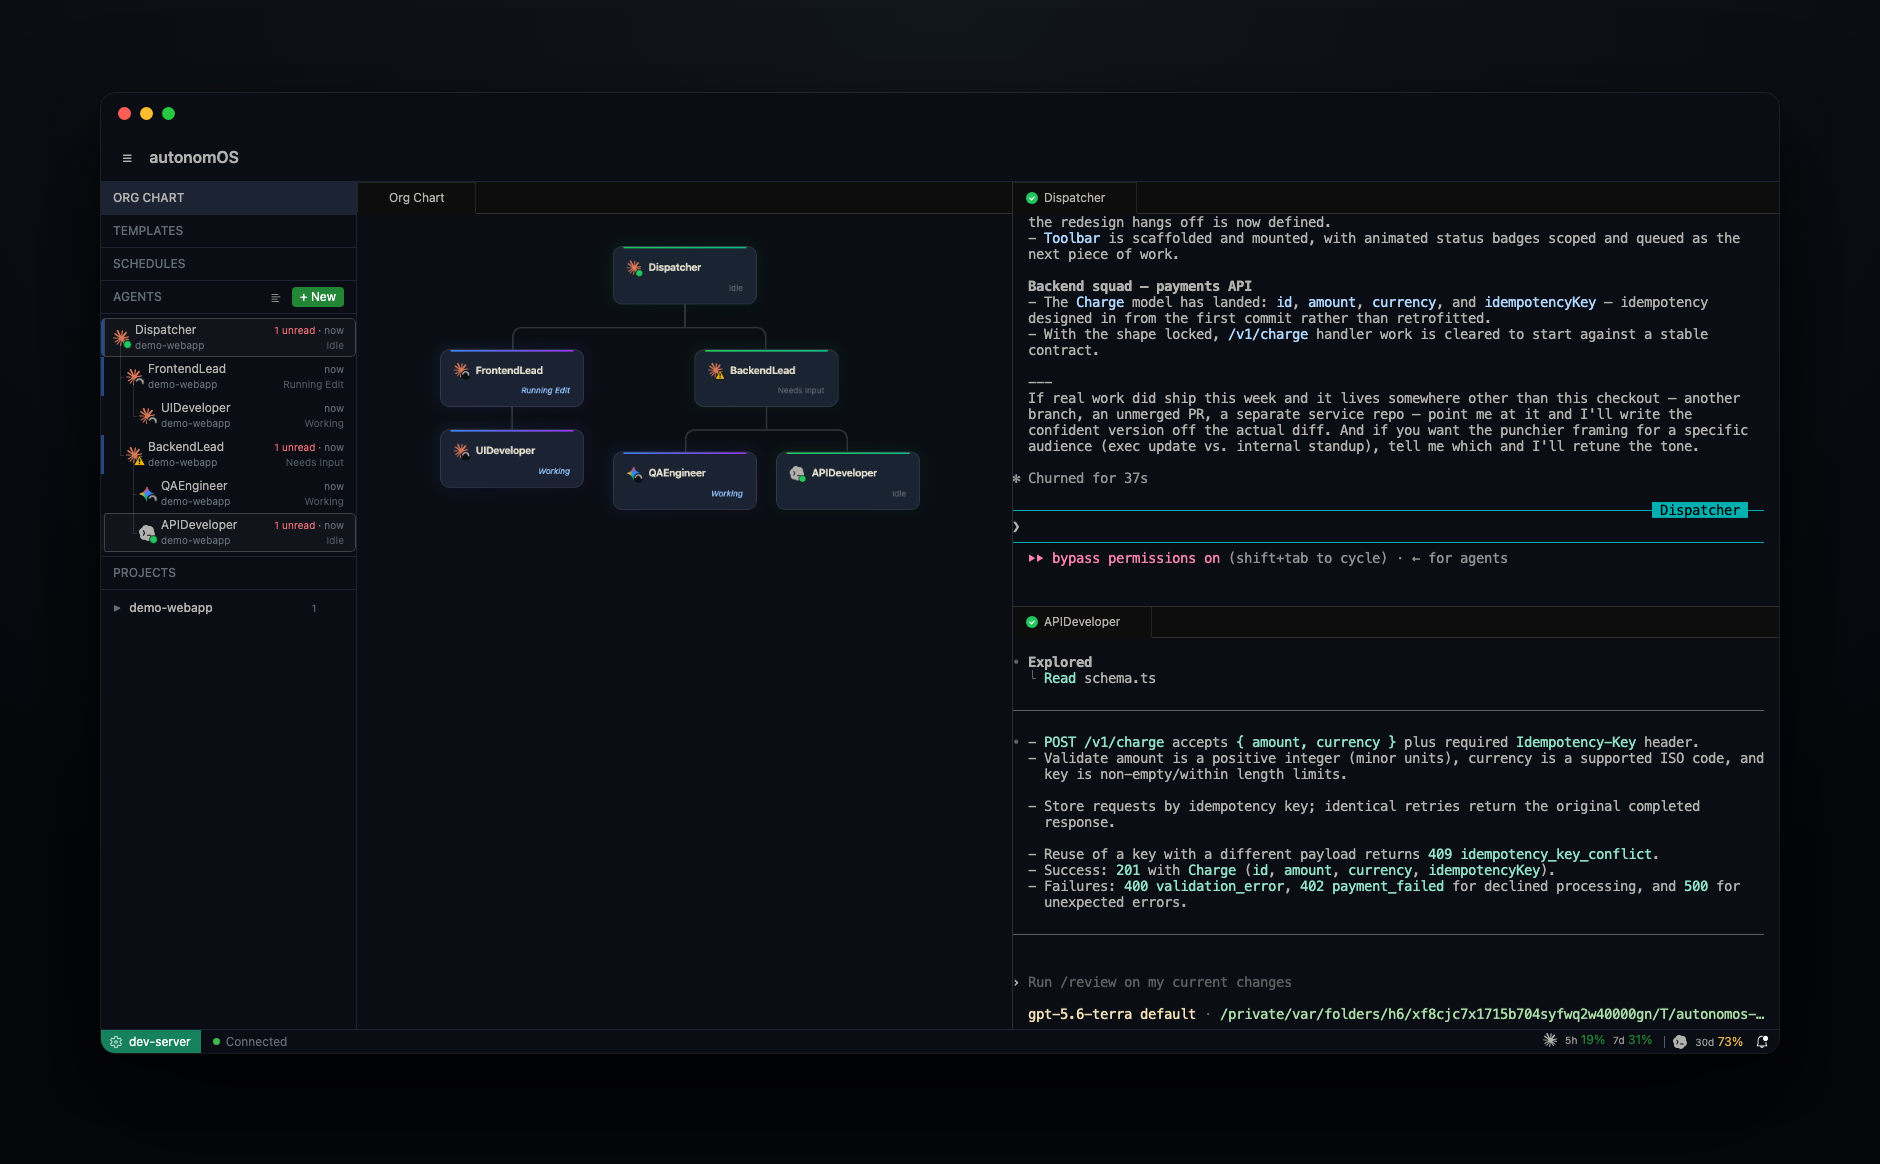
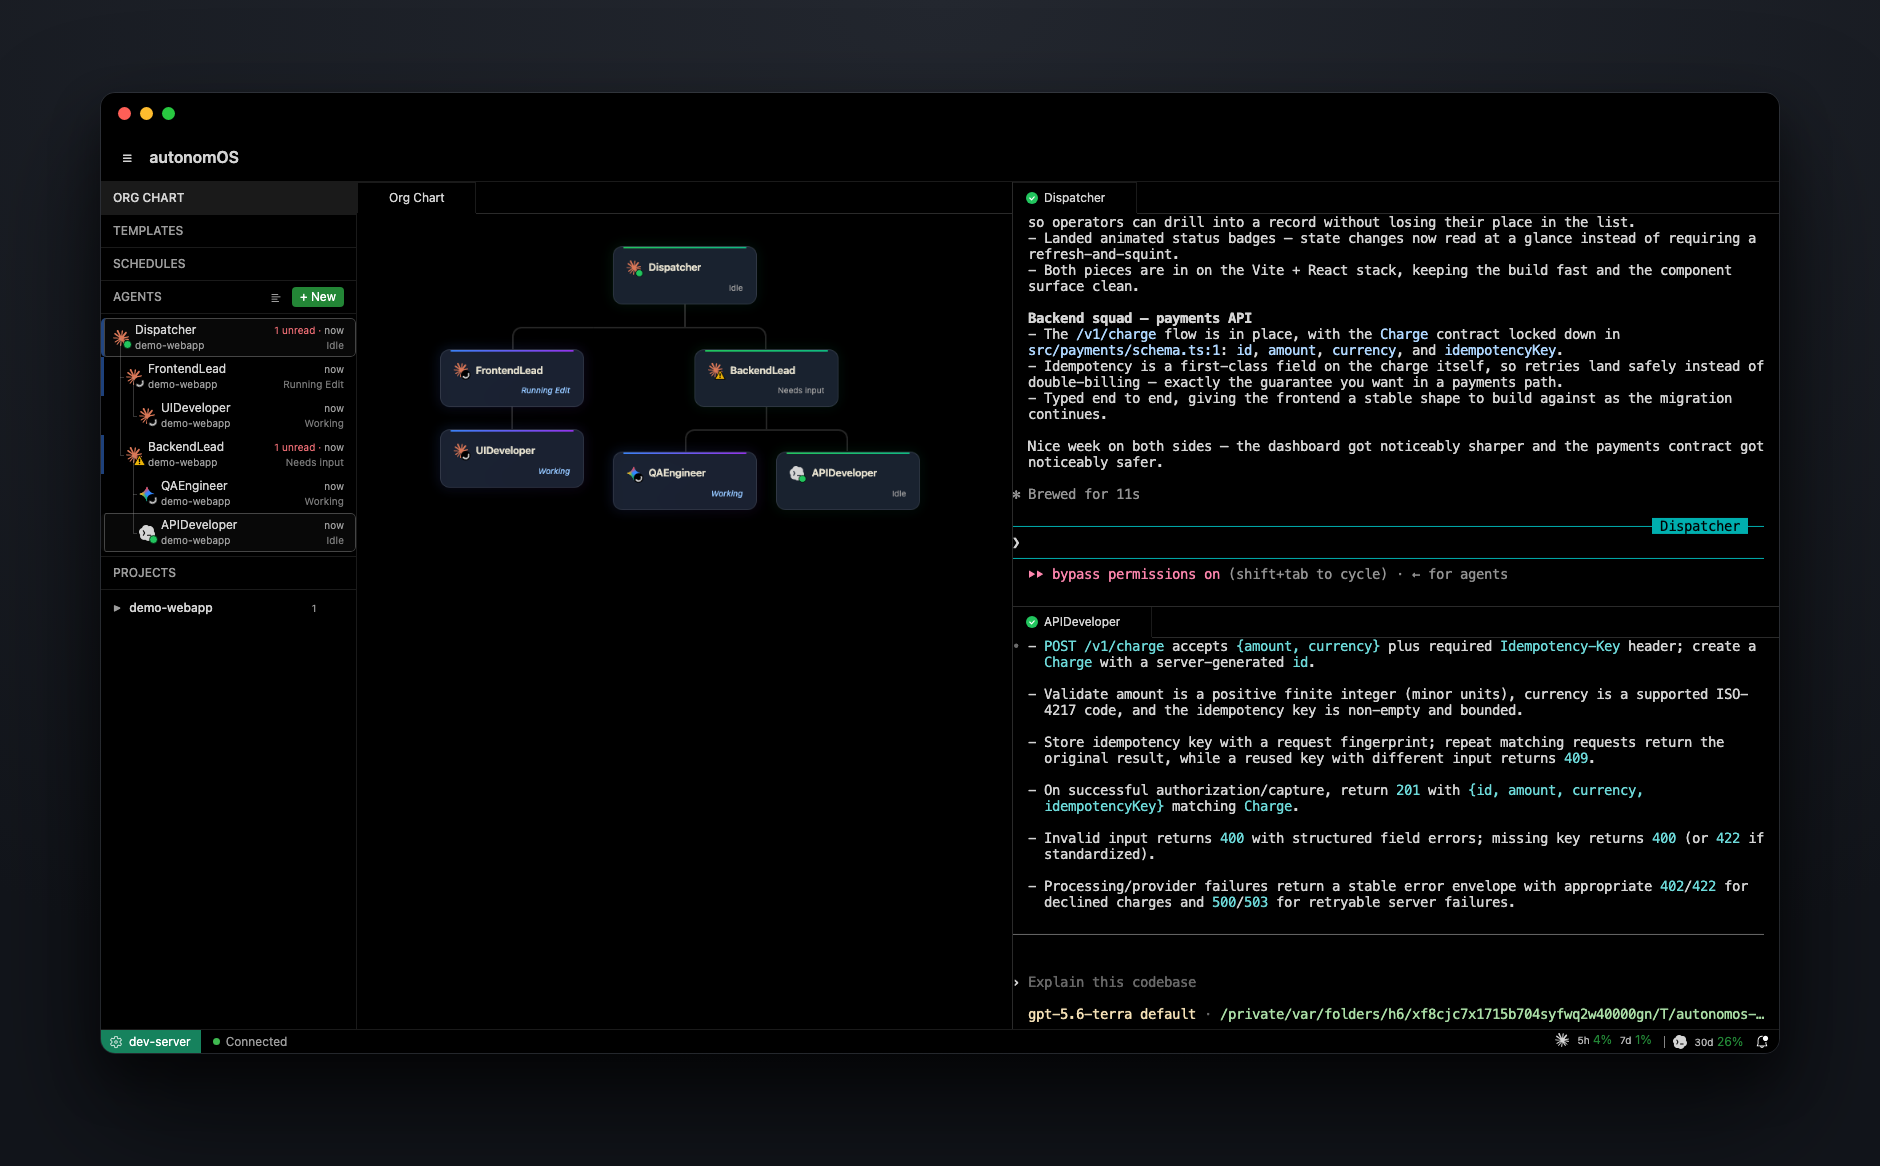
docs(hero): void theme + lighter backdrop so the black window floats
- capture in Void (pure-black) theme instead of Midnight; frame title bar
  -> #000000 so it flows seamlessly into the black app.
- frame backdrop -> a lighter neutral-gray radial gradient (#23272f->#12151b)
  so the pure-black window separates and its drop shadow reads.
- fix: this server (ADR-055) moved hook INGESTION onto the internal Unix
  control socket, so POST /api/hooks/:id on the TCP port no longer accepts
  status poses (404). Route poses through the control socket instead, and
  make posing best-effort (warn, not throw) so future API drift can't abort
  an expensive capture.

Claude-Session: https://claude.ai/code/session_01S3SKqmcdvkaGsC6hW6hdz4

diff --git a/packages/dashboard/scripts/capture-hero.ts b/packages/dashboard/scripts/capture-hero.ts
@@ -88,7 +88,12 @@ import {
   symlinkSync,
   writeFileSync,
 } from "node:fs";
-import { createServer, type Server, type ServerResponse } from "node:http";
+import {
+  createServer,
+  request as httpRequest,
+  type Server,
+  type ServerResponse,
+} from "node:http";
 import type { AddressInfo } from "node:net";
 import { homedir, tmpdir } from "node:os";
 import { join } from "node:path";
@@ -786,6 +791,47 @@ interface AgentInfo {
   provider?: string;
 }
 
+/** The internal control socket path — hook INGEST moved off the HTTP port onto
+ *  this Unix socket (ADR-055), so status poses must go here, not to
+ *  `POST /api/hooks` on the TCP port (which now only serves hook READS → 404).
+ *  Parsed from the boot log, with a fallback to `$configDir/control.sock`. */
+function controlSocketPath(server: DemoServer): string {
+  const m = server.logs().match(/control socket ready at (\S+)/);
+  return m ? m[1] : join(server.configDir, "control.sock");
+}
+
+/** POST a synthetic hook event to the internal control socket to pose an
+ *  agent's status badge. The socket is the auth boundary (no token needed — same
+ *  as the agents' own `curl --unix-socket` hook relay). Resolves the HTTP
+ *  status; the caller treats non-200 as non-fatal. */
+function poseHook(
+  socketPath: string,
+  sessionId: string,
+  event: Record<string, unknown>,
+): Promise<number> {
+  return new Promise((resolve, reject) => {
+    const payload = JSON.stringify({ ...event, session_id: sessionId });
+    const req = httpRequest(
+      {
+        socketPath,
+        path: `/api/hooks/${sessionId}`,
+        method: "POST",
+        headers: {
+          "Content-Type": "application/json",
+          "Content-Length": Buffer.byteLength(payload),
+        },
+      },
+      (res) => {
+        res.resume(); // drain
+        res.on("end", () => resolve(res.statusCode ?? 0));
+      },
+    );
+    req.on("error", reject);
+    req.write(payload);
+    req.end();
+  });
+}
+
 async function stageScene(
   server: DemoServer,
   cast: CastMember[],
@@ -880,16 +926,20 @@ async function stageScene(
   }
   console.log("Org chart wired");
 
-  // Pose status badges (Claude CC-native events; Gemini Gemini-native events —
-  // the hooks route maps each provider's vocabulary via normalizeEvent).
+  // Pose status badges via the internal control socket (Claude CC-native events;
+  // Gemini Gemini-native events — the ingest router maps each provider's
+  // vocabulary via normalizeEvent). Best-effort: badges are cosmetic, so a pose
+  // failure warns rather than aborting the (expensive) capture.
+  const socketPath = controlSocketPath(server);
   for (const m of cast) {
     if (!m.pose) continue;
     for (const ev of m.pose) {
-      const { status } = await api(server, `/api/hooks/${idOf(m.name)}`, {
-        method: "POST",
-        body: JSON.stringify({ ...ev, session_id: idOf(m.name) }),
-      });
-      if (status !== 200) throw new Error(`pose ${m.name} → ${status}`);
+      try {
+        const status = await poseHook(socketPath, idOf(m.name), ev);
+        if (status !== 200) console.warn(`pose ${m.name} → ${status} (non-fatal)`);
+      } catch (err) {
+        console.warn(`pose ${m.name} failed (non-fatal): ${err}`);
+      }
       await sleep(120);
     }
   }
@@ -901,7 +951,7 @@ async function stageScene(
 }
 
 // ── Web capture ──────────────────────────────────────────────────────────────
-const THEME = "midnight";
+const THEME = "void"; // pure-black theme (#000000 bg) — see store.ts THEMES
 const VIEWPORT = { width: HERO_W, height: HERO_H };
 
 type PaneObj =
@@ -1126,10 +1176,10 @@ async function frameMacWindow(
   // V1 frame — matches the design Terry picked; edit with care.
   const html = `<!doctype html><html><head><meta charset="utf-8"><style>
 *{margin:0;padding:0;box-sizing:border-box}
-.mat{ padding:92px 100px 112px; background:radial-gradient(120% 130% at 50% 0%, #12161d 0%, #05070b 70%); display:inline-block; }
+.mat{ padding:92px 100px 112px; background:radial-gradient(120% 130% at 50% 0%, #23272f 0%, #12151b 72%); display:inline-block; }
 .win{ width:${w}px; border-radius:15px; overflow:hidden; border:1px solid rgba(255,255,255,.08);
   box-shadow:0 2px 0 rgba(255,255,255,.05) inset, 0 60px 120px rgba(0,0,0,.6), 0 24px 48px rgba(0,0,0,.45); }
-.bar{ height:40px; background:#0a0e14; display:flex; align-items:center; gap:9px; padding:0 17px; }
+.bar{ height:40px; background:#000000; display:flex; align-items:center; gap:9px; padding:0 17px; }
 .dot{ width:13px; height:13px; border-radius:50% }
 .r{background:#ff5f57}.y{background:#febc2e}.g{background:#28c840}
 .shot{ display:block; width:${w}px; height:${h}px }
